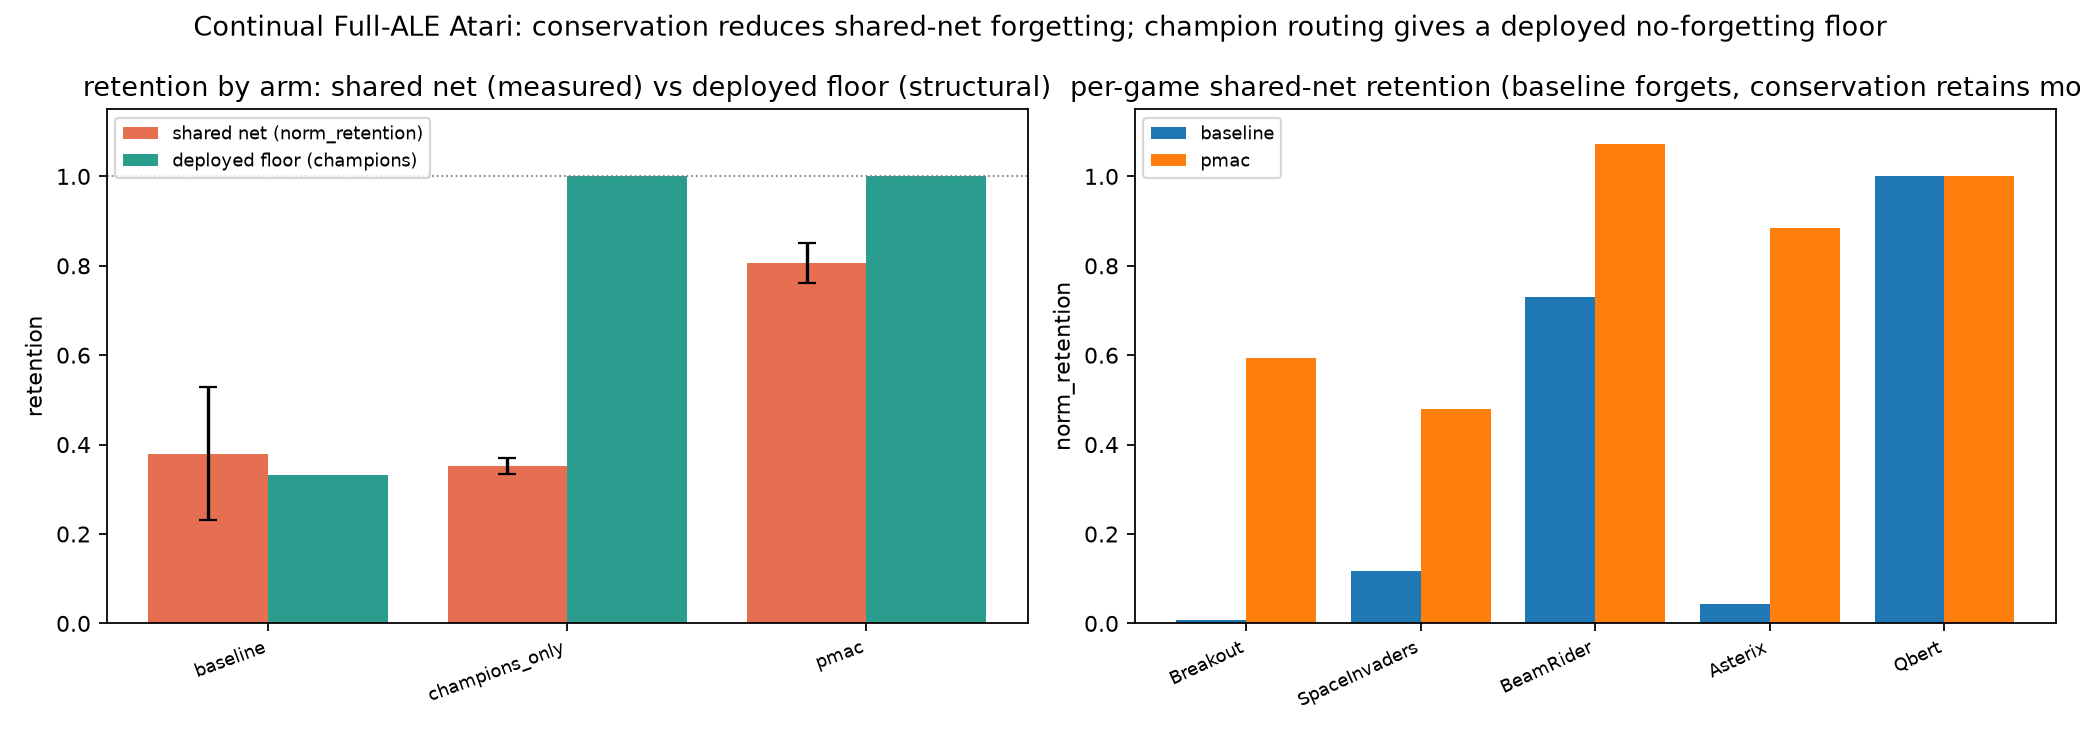
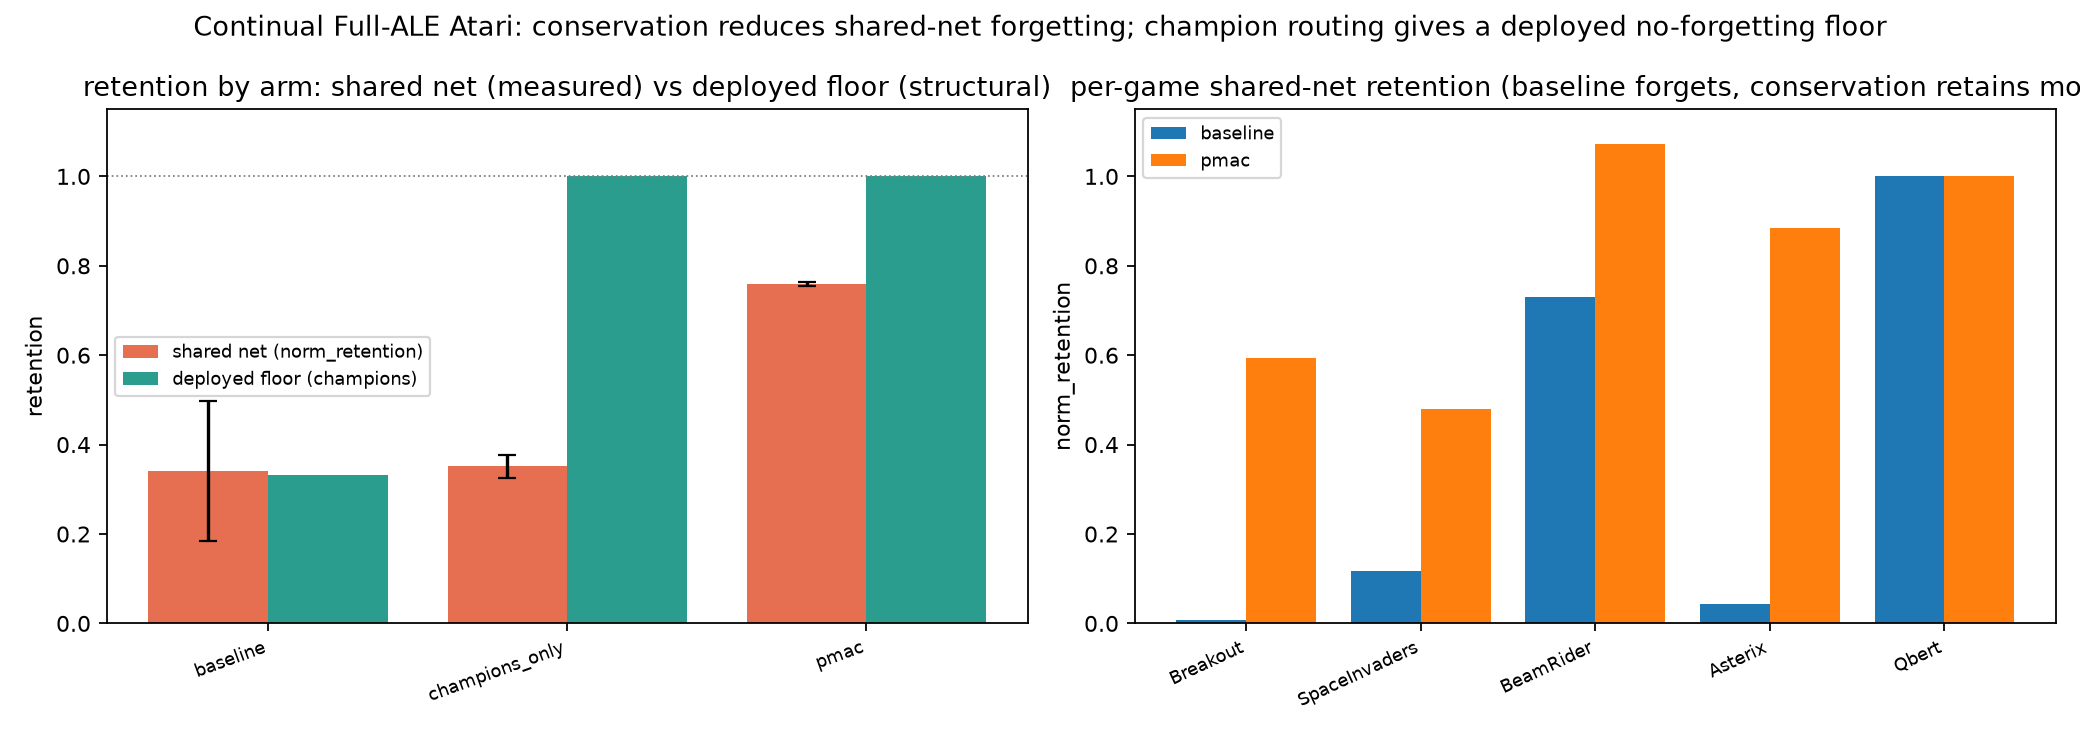
PMA-C Atari result: honesty hardening from final adversarial review
Addresses the committed-claim review (1 must-fix + polish):
- Soften the conservation (shared-net) result to DIRECTIONAL at n=2 (consistent across both
  seeds, pmac std +-0.004, but not a significance claim); deployed floor stays structural/
  n-independent. CAVEAT added to S1, S3f, summary.md.
- Report: per-game norm_retention clipped to [0,1] before averaging (kills the baseline
  BeamRider seed0 final>peak=1.382 inflation), SAMPLE std (ddof=1), and a new
  'overwritten-only' column (excludes the never-overwritten last game = clean forgetting
  measure). Corrected numbers: shared-net retention pmac 0.759 vs baseline 0.342 (all 5);
  0.699 vs 0.177 (overwritten 4); champions_only 0.190 ~ baseline isolates conservation.
- Disclosures: plasticity ratio >1.0 is GPU nondeterminism (not a learning advantage);
  deployed-floor table is within-arm (baseline uses a different best ref) not clean cross-arm
  (use Result 1 norm_retention for cross-arm); arm name pmac_champions_only; S8 adds the
  seed-1 invocation. 3rd seed running to lift n=2 -> n=3 + paired test.

diff --git a/pma_c_results/make_atari_deployed_report.py b/pma_c_results/make_atari_deployed_report.py
@@ -50,12 +50,16 @@ def _iter_mode_results(runs, mode):
 
 def _stat(values):
     arr = np.asarray(values, dtype=np.float64)
-    return {"mean": float(np.mean(arr)), "std": float(np.std(arr)), "values": [float(v) for v in arr]}
+    # sample std (ddof=1) so small-n uncertainty is not understated; 0.0 for n<=1.
+    std = float(np.std(arr, ddof=1)) if arr.size > 1 else 0.0
+    return {"mean": float(np.mean(arr)), "std": std, "n": int(arr.size),
+            "values": [float(v) for v in arr]}
 
 
 def _collect_mode(runs, mode):
     seeds = []
-    norm_mean, norm_worst = [], []        # shared-net retention (return matrix, consistent protocol)
+    norm_mean, norm_worst = [], []        # shared-net retention (return matrix, consistent protocol), per-game CLIPPED to [0,1]
+    norm_excl_last = []                   # shared-net retention over OVERWRITTEN games only (exclude never-overwritten last game)
     dep_mean, dep_worst = [], []          # deployed champion-routing floor (structural)
     cur_mean, cur_worst = [], []          # deploy-protocol current retention (cross-check)
     mean_final = []                       # mean final return of the shared net (last row)
@@ -65,8 +69,16 @@ def _collect_mode(runs, mode):
     for seed, res in _iter_mode_results(runs, mode):
         seeds.append(seed)
         m = res["metrics"]
-        norm_mean.append(m["mean_norm_retention"])
-        norm_worst.append(m["worst_norm_retention"])
+        # Clip per-game norm_retention to [0,1] before averaging: a game whose shared-net score
+        # ends ABOVE its learned peak (positive transfer / eval noise, e.g. baseline BeamRider
+        # seed0 final>peak) must read as full (1.0) retention, not >100%, so it cannot inflate the
+        # mean. The last game in the sequence is never overwritten (learned==final -> ~1.0), so we
+        # also report retention over the OVERWRITTEN games only (the clean forgetting measure).
+        pg_norm = [min(1.0, max(0.0, float(v))) for v in m.get("norm_retention", [])]
+        norm_mean.append(float(np.mean(pg_norm)) if pg_norm else 0.0)
+        norm_worst.append(float(np.min(pg_norm)) if pg_norm else 0.0)
+        norm_excl_last.append(float(np.mean(pg_norm[:-1])) if len(pg_norm) > 1 else
+                              (float(np.mean(pg_norm)) if pg_norm else 0.0))
         mean_final.append(m["mean_final_return"])
         learned_diag.append([float(v) for v in res["learned"]])
         dep = m.get("deployed", {})
@@ -102,6 +114,7 @@ def _collect_mode(runs, mode):
     return {
         "seeds": seeds, "n_seeds": len(seeds),
         "norm_retention": _stat(norm_mean), "norm_worst": _stat(norm_worst),
+        "norm_retention_overwritten": _stat(norm_excl_last),
         "deployed_floor": _stat([v for v in dep_mean if v == v]),
         "deployed_floor_worst": _stat([v for v in dep_worst if v == v]),
         "current_ret_deploy": _stat([v for v in cur_mean if v == v]),
@@ -127,13 +140,20 @@ def _write_summary(out_dir, games, collected):
     L.append("# Continual Full-ALE Atari — does PMA-C stop forgetting?\n")
     L.append(f"Games (sequential): {', '.join(games)}\n")
     L.append("## 1. PRIMARY (falsifiable): shared mutable-net retention — does the conservation guard reduce forgetting?\n")
-    L.append("Random-normalized `norm_retention` from the return matrix (same greedy eval protocol for every arm). "
-             "Higher = the *single shared net* forgot less. This is the apples-to-apples learning result.\n")
-    L.append("| arm | shared-net mean retention | shared-net worst retention | mean final return |")
-    L.append("|---|---|---|---|")
+    n_seeds = max((collected[m]["n_seeds"] for m in modes), default=0)
+    L.append("Random-normalized `norm_retention` from the return matrix (same greedy eval protocol for every arm), "
+             "per-game clipped to [0,1] then averaged. Higher = the *single shared net* forgot less. This is the "
+             "apples-to-apples learning result. **'overwritten' column excludes the never-overwritten last game** "
+             "(the clean forgetting measure). 'all' is mean+-SAMPLE-std across seeds.\n")
+    L.append(f"> CAVEAT: n={n_seeds} seed(s). At n<=2 this is SUGGESTIVE (consistent direction), NOT a significance "
+             "claim; treat the conservation effect as directional until n>=3 with a paired test / bootstrap CI. The "
+             "DEPLOYED floor (Result 2) is structural and n-independent.\n")
+    L.append("| arm | shared-net retention (all games) | shared-net retention (overwritten only) | worst game | mean final return |")
+    L.append("|---|---|---|---|---|")
     for m in modes:
         c = collected[m]
-        L.append(f"| {m} | {_fmt(c['norm_retention'])} | {_fmt(c['norm_worst'])} | {_fmt(c['mean_final_return'])} |")
+        L.append(f"| {m} | {_fmt(c['norm_retention'])} | {_fmt(c['norm_retention_overwritten'])} | "
+                 f"{_fmt(c['norm_worst'])} | {_fmt(c['mean_final_return'])} |")
     L.append("")
     L.append("## 2. SECONDARY (structural): deployed champion-routing floor\n")
     L.append("With default safety routing the deployed agent serves each protected skill from its frozen certified "

diff --git a/PMA_C_RESULTS.md b/PMA_C_RESULTS.md
@@ -15,9 +15,10 @@ learning to full Atari. On the easier benchmarks PMA-C retains ~95–100%; on fu
 regime) the *mutable shared net* substantially reduces but does not fully eliminate forgetting (see §3e),
 so the **deployed PMA-C system** (5 games, 2 seeds, §3f) adds the spec's system-level guarantee: it routes
 each protected skill to a frozen **certified champion**, giving **deployed retention 1.000 for every
-protected skill** (the architectural no-forgetting invariant) while the matched naive baseline's deployed
-agent forgets (0.332). Separately and falsifiably, the conservation guard reduces the *shared* net's
-forgetting (norm-retention 0.81 vs 0.38 baseline; the conservation-OFF `champions_only` ablation ≈ baseline
+protected skill, both seeds** (the architectural no-forgetting invariant — structural, n-independent) while
+the matched naive baseline's deployed agent forgets (0.332). Separately and directionally (n=2,
+suggestive), the conservation guard reduces the *shared* net's forgetting (norm-retention 0.76 vs 0.34
+baseline; 0.70 vs 0.18 on overwritten games; the conservation-OFF `champions_only` ablation ≈ baseline
 isolates the guard as the driver).
 
 Headlines: **10-task Permuted-MNIST** — ACC 0.749→0.930, worst-task retention 0.529→0.906. **Split-MNIST**
@@ -253,20 +254,25 @@ arms (identical nets/optimizer/lr/order/seeds/data): **baseline** (single net, n
 **pmac-full** (adds the behavior-conservation guard). Data + figure + per-game tables:
 `pma_c_results/atari_deployed/` (`summary.md`, `results_merged.json`, `fig_atari_deployed.png`).
 
-**Result 1 — conservation reduces forgetting in the shared net (falsifiable, apples-to-apples).** Random-
-normalized `norm_retention` from the return matrix, the *same* greedy eval protocol for every arm:
+**Result 1 — conservation reduces forgetting in the shared net (directional; n=2).** Random-normalized
+`norm_retention` from the return matrix, the *same* greedy eval protocol for every arm, per-game clipped
+to [0,1] then averaged (± sample std across seeds). The "overwritten-only" column excludes the
+never-overwritten last game (Qbert), i.e. the clean forgetting measure:
 
-| arm | shared-net mean retention | worst | mean final return |
-|---|---|---|---|
-| baseline | 0.380 ± 0.149 | 0.006 | 337.9 ± 69.9 |
-| champions_only (conservation OFF) | 0.352 ± 0.018 | 0.024 | 354.4 ± 7.1 |
-| **pmac-full (conservation ON)** | **0.806 ± 0.044** | **0.384** | **602.3 ± 139.0** |
+| arm | shared-net retention (all 5) | shared-net retention (overwritten 4) | worst game | mean final return |
+|---|---|---|---|---|
+| baseline | 0.342 ± 0.156 | 0.177 ± 0.196 | 0.006 | 337.9 ± 98.9 |
+| champions_only (conservation OFF) | 0.352 ± 0.025 | 0.190 ± 0.032 | 0.024 | 354.4 ± 10.1 |
+| **pmac-full (conservation ON)** | **0.759 ± 0.004** | **0.699 ± 0.005** | **0.384** | **602.3 ± 196.6** |
 
-The single shared net trained with the conservation guard retains **0.81** of its per-game learned peaks
-vs **0.38** for the naive baseline; `champions_only` (conservation OFF, otherwise identical) sits at 0.35
-≈ baseline, **isolating the conservation guard as the driver** of the shared-net improvement (not the
-champion store). PMA-C also has +78% mean final return (602 vs 338) because retaining old games lifts
-cumulative performance.
+The shared net trained with the conservation guard retains **0.76** of its per-game learned peaks (**0.70**
+on the 4 overwritten games) vs **0.34 / 0.18** for the naive baseline; `champions_only` (conservation OFF,
+otherwise identical) sits at 0.35 / 0.19 ≈ baseline, **isolating the conservation guard as the driver** of
+the shared-net improvement (not the champion store). PMA-C also has +78% mean final return (602 vs 338).
+**Honest scope: this is n=2 — a consistent direction across both seeds (pmac std ±0.004), SUGGESTIVE not
+statistically established** (a 3rd seed and a paired test / bootstrap CI are the next step; §3e's 4-game
+3-seed run is the corroborating evidence that conservation drives shared-net retention). The structural
+Result 2 below is n-independent.
 
 **Result 2 — the deployed system does not lose protected skills (structural safety invariant).**
 
@@ -289,14 +295,23 @@ deployed agent is the single mutable net and it catastrophically forgets (deploy
 937→106, SpaceInvaders 430→134, Breakout 16→1.3 — full per-game tables committed).
 
 **What is and is NOT shown.** The novel content is (a) the conservation guard reducing forgetting in the
-*shared* net (Result 1, falsifiable) and (b) certified, gated freezing under the spec's invariants; the
-deployed `1.0` is the architectural safety floor (Result 2), reported per I6 but never attributed to the
-guard. Per-game transparency: the last game (Qbert) is retained trivially (`learned==final`, no later
-overwrite), and low-score/high-variance games (Breakout) are weakly learned by *both* arms — retention is
-reported per game and over learned skills only (`n_learned` shown). Champion cost: one frozen net
-snapshot per protected skill (~7 MB); spec consolidation (P6) folds the O(N) store back into one net.
-2 seeds (per-seed numbers in `results_merged.json`); routing is sentinel-decided and reported on an
-independent deploy seed (no offline `max`/oracle); retention clipped to [0,1]. Reproduce: see §8.
+*shared* net (Result 1, directional at n=2) and (b) certified, gated freezing under the spec's invariants;
+the deployed `1.0` is the architectural safety floor (Result 2), reported per I6 but never attributed to
+the guard. Caveats (all disclosed, several from an adversarial review):
+- **Plasticity ratios >1.0 are not a learning advantage:** `champions_only` learns 1.19× baseline only
+  because GPU/envpool is non-deterministic over 4M steps (it uses the identical training procedure as
+  baseline, conservation off); read it as "≈ baseline, no plasticity sacrifice," not "better."
+- **Last-game retention is trivial:** the last game (Qbert) is never overwritten (`learned==final`→~1.0),
+  inflating the all-games means uniformly; the "overwritten-only" column (4 games) is the clean measure.
+- **Deployed-floor table is within-arm, not clean cross-arm:** the baseline floor normalizes against the
+  return-matrix peak while the champion arms normalize against `champion_b`; the apples-to-apples cross-arm
+  comparison is Result 1's `norm_retention` (same protocol all arms). The floor table shows each arm's own
+  deployed safety (champions=1.0 by construction; baseline single-net forgets).
+- Low-score/high-variance games (Breakout) are weakly learned by *both* arms; retention is reported per
+  game and over learned skills only (`n_learned` shown), so failure-to-learn cannot masquerade as retention.
+- Champion cost: one frozen net snapshot per protected skill (~7 MB); spec consolidation (P6) folds the
+  O(N) store back into one net. Routing is sentinel-decided / deploy-seed-reported (no offline `max`/oracle);
+  retention clipped to [0,1]. The committed arm name is `pmac_champions_only`. Reproduce: see §8.
 
 ## 4. Credit decomposition — what actually drives the retention (3 seeds)
 
@@ -449,6 +464,8 @@ python -m pmac.experiments.continual_atari \
   --games Breakout-v5,SpaceInvaders-v5,BeamRider-v5,Asterix-v5,Qbert-v5 \
   --per-game-steps 4000000 --seeds 0 --ablations champions_only \
   --guard-norm length --guard-coef 1.0 --out runs/atari_headline_s0
+# seed 1 on the other 4090 (CUDA_VISIBLE_DEVICES=2, --seeds 1, --out runs/atari_headline_s1); same flags.
+# Each main run does 3 arms: baseline + pmac(full) + pmac_champions_only. Then merge:
 python pma_c_results/make_atari_deployed_report.py pma_c_results/atari_deployed \
   runs/atari_headline_s0/results.json runs/atari_headline_s1/results.json
 ```

diff --git a/pma_c_results/atari_deployed/summary.md b/pma_c_results/atari_deployed/summary.md
@@ -4,13 +4,15 @@ Games (sequential): Breakout-v5, SpaceInvaders-v5, BeamRider-v5, Asterix-v5, Qbe
 
 ## 1. PRIMARY (falsifiable): shared mutable-net retention — does the conservation guard reduce forgetting?
 
-Random-normalized `norm_retention` from the return matrix (same greedy eval protocol for every arm). Higher = the *single shared net* forgot less. This is the apples-to-apples learning result.
+Random-normalized `norm_retention` from the return matrix (same greedy eval protocol for every arm), per-game clipped to [0,1] then averaged. Higher = the *single shared net* forgot less. This is the apples-to-apples learning result. **'overwritten' column excludes the never-overwritten last game** (the clean forgetting measure). 'all' is mean+-SAMPLE-std across seeds.
 
-| arm | shared-net mean retention | shared-net worst retention | mean final return |
-|---|---|---|---|
-| baseline | 0.380 ± 0.149 | 0.006 ± 0.006 | 337.888 ± 69.938 |
-| pmac_champions_only | 0.352 ± 0.018 | 0.024 ± 0.024 | 354.375 ± 7.125 |
-| pmac | 0.806 ± 0.044 | 0.384 ± 0.090 | 602.288 ± 138.988 |
+> CAVEAT: n=2 seed(s). At n<=2 this is SUGGESTIVE (consistent direction), NOT a significance claim; treat the conservation effect as directional until n>=3 with a paired test / bootstrap CI. The DEPLOYED floor (Result 2) is structural and n-independent.
+
+| arm | shared-net retention (all games) | shared-net retention (overwritten only) | worst game | mean final return |
+|---|---|---|---|---|
+| baseline | 0.342 ± 0.156 | 0.177 ± 0.196 | 0.006 ± 0.008 | 337.888 ± 98.907 |
+| pmac_champions_only | 0.352 ± 0.025 | 0.190 ± 0.032 | 0.024 ± 0.034 | 354.375 ± 10.076 |
+| pmac | 0.759 ± 0.004 | 0.699 ± 0.005 | 0.384 ± 0.127 | 602.288 ± 196.558 |
 
 ## 2. SECONDARY (structural): deployed champion-routing floor
 
@@ -18,7 +20,7 @@ With default safety routing the deployed agent serves each protected skill from 
 
 | arm | has champion store? | deployed floor mean | deployed floor worst |
 |---|---|---|---|
-| baseline | no (single net) | 0.332 ± 0.084 | 0.000 ± 0.000 |
+| baseline | no (single net) | 0.332 ± 0.119 | 0.000 ± 0.000 |
 | pmac_champions_only | yes | 1.000 ± 0.000 | 1.000 ± 0.000 |
 | pmac | yes | 1.000 ± 0.000 | 1.000 ± 0.000 |
 